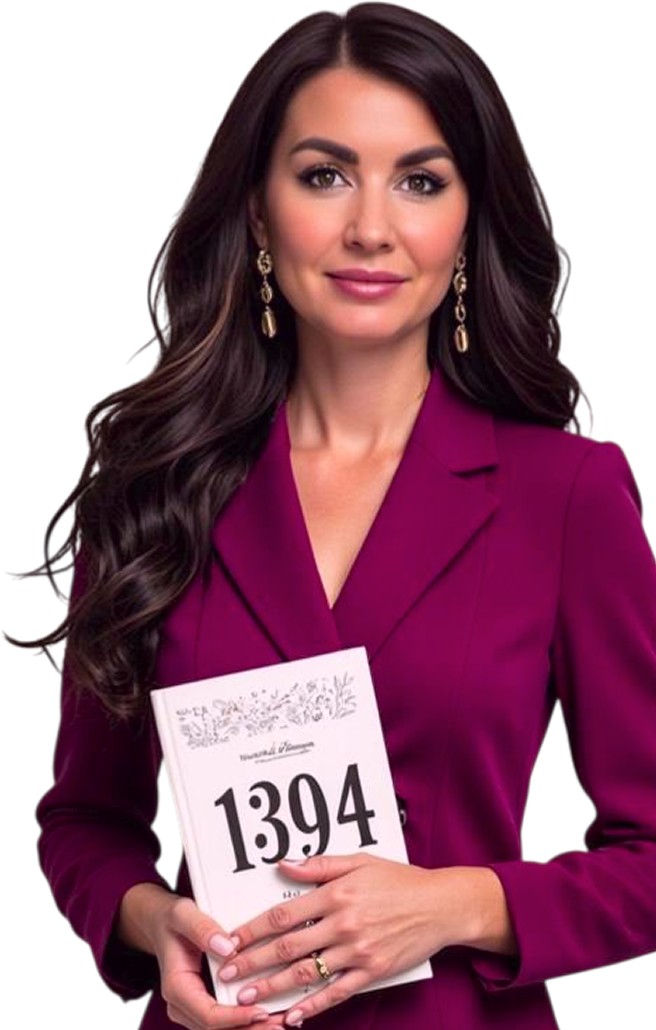
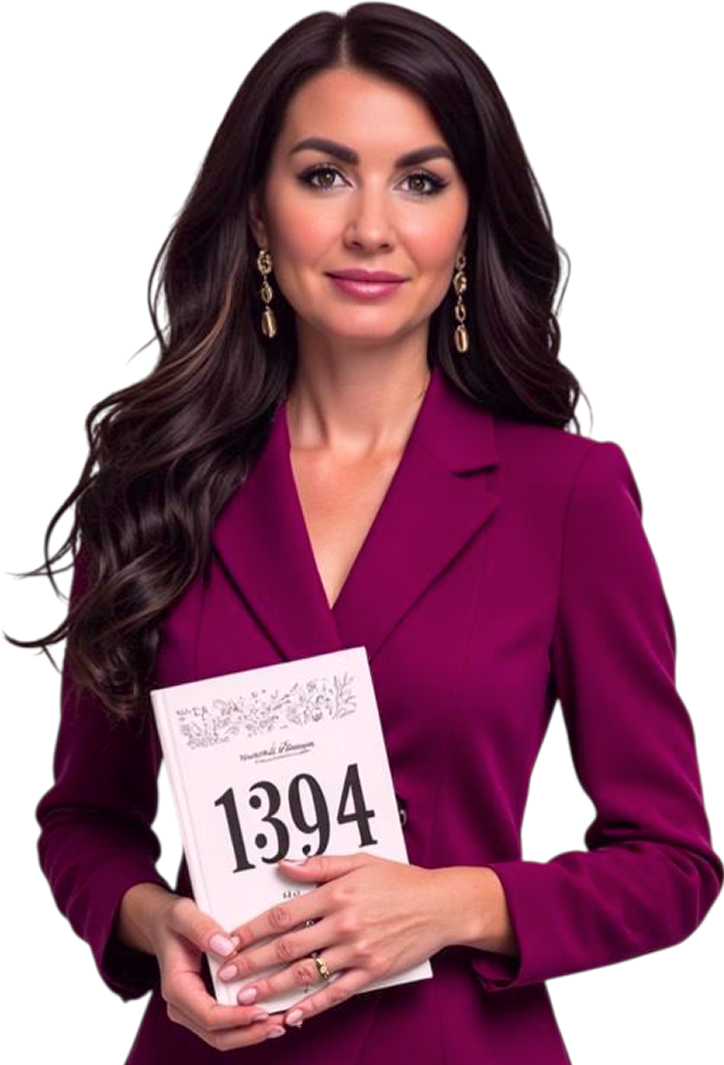
SAVE

diff --git a/css/responsive.css b/css/responsive.css
@@ -66,6 +66,9 @@
         padding-top: 100px;
         padding-bottom: 0;
     }
+    .index-img{
+        right: 3%;
+    }
 }
 @media screen and (min-width: 1280px) and (max-width: 1440px) and (max-height: 920px) {
     .index-footer{

diff --git a/css/main.css b/css/main.css
@@ -115,9 +115,10 @@ body{
     color: #730a41;
 }
 .index-img {
+    /*aspect-ratio: 656 / 1065;*/
     position: absolute;
     bottom: 0;
-    right: 0;
+    right: -68px;
     z-index: 1;
     height: 95%;
     max-height: 1050px;
